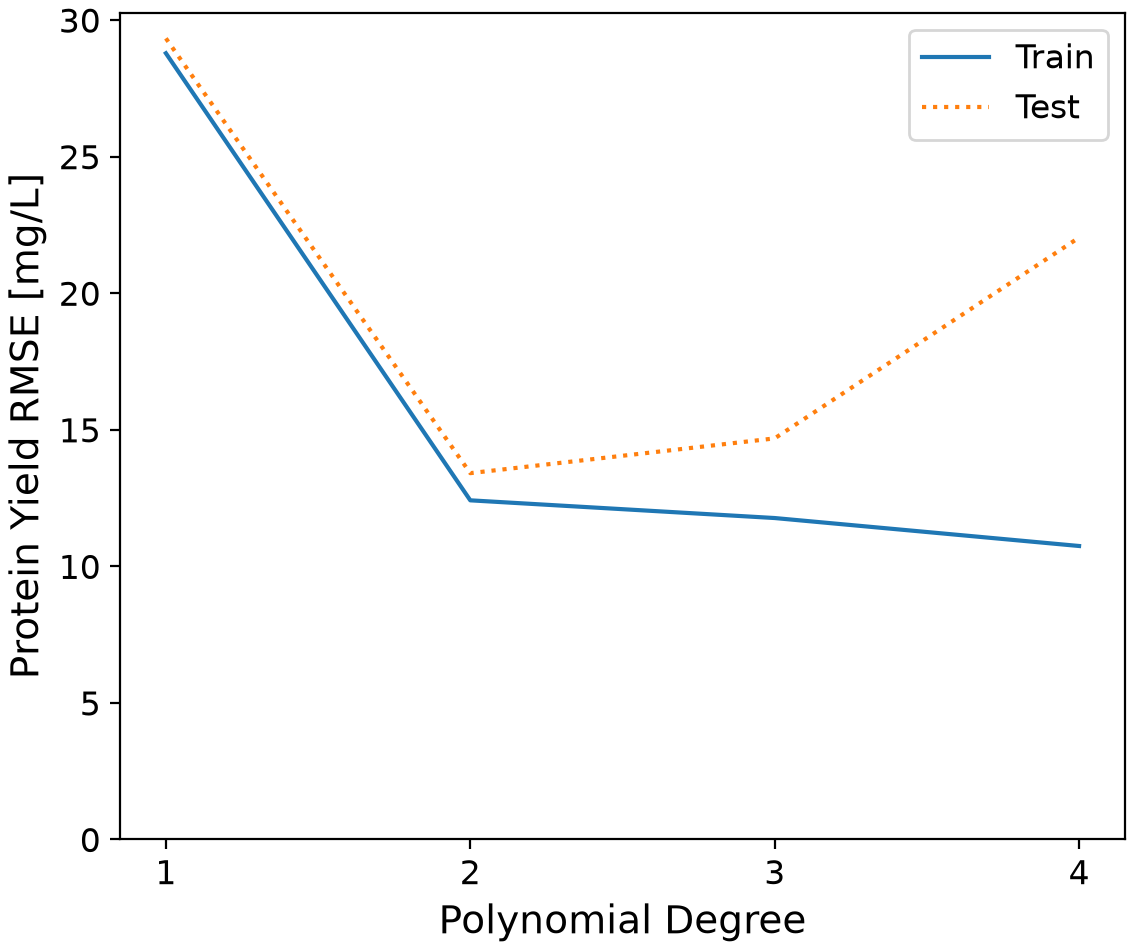
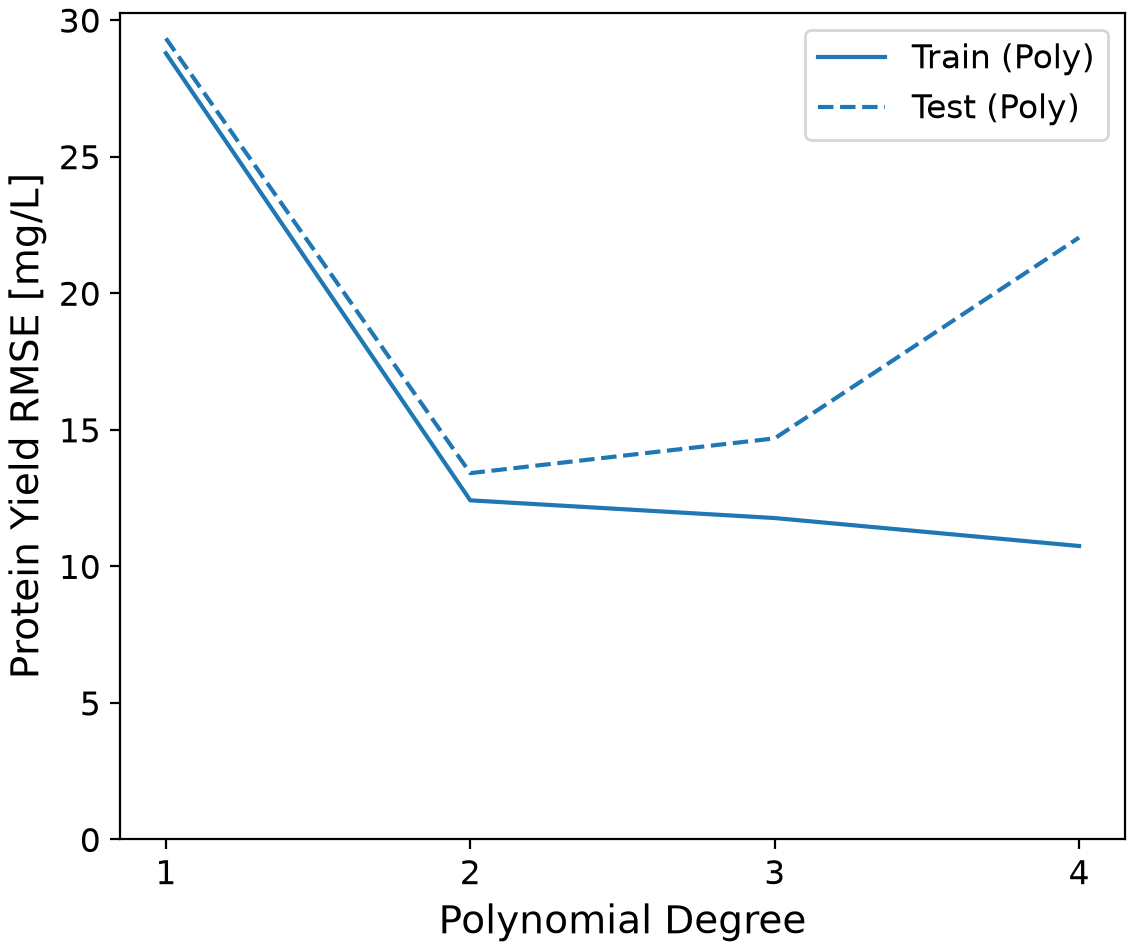
Added unit 4 > main 9

diff --git a/units/unit_04/main_09_knn_regression.py b/units/unit_04/main_09_knn_regression.py
@@ -1,0 +1,106 @@
+# ============================================================================
+#   k-Nearest Neighbors Regression
+# ============================================================================
+#
+#   * Polynomial regression extends linear regression using higher-order
+#     terms of the input features.
+#
+#   * These additional terms allow the model to capture nonlinear
+#     relationships in the data.
+#
+#   * More complex polynomial models can improve fit but may increase the
+#     risk of overfitting.
+#
+# ============================================================================
+
+import os
+
+import pandas as pd
+from matplotlib import pyplot as plt
+from sklearn.model_selection import GridSearchCV, train_test_split
+from sklearn.neighbors import KNeighborsRegressor
+from sklearn.pipeline import make_pipeline
+from sklearn.preprocessing import StandardScaler
+
+df = pd.read_csv(os.path.join("datasets", "dataset_protein_yield.csv"))
+
+features = df.columns[:-1]
+targets = df.columns[-1]
+
+x = df.loc[:, features].to_numpy()
+y = df.loc[:, targets].to_numpy()
+
+x_train, x_test, y_train, y_test = train_test_split(x, y, test_size=0.2, random_state=0)
+
+model = make_pipeline(
+    StandardScaler(),
+    KNeighborsRegressor()
+)
+
+# Define the "Grid" that we want to "Search" when performing "CV" in GridSearchCV
+param_grid = dict(
+    kneighborsregressor__n_neighbors=[i for i in range(1, 81)],  # Try every value of n_neighbors from 1 to 10
+    kneighborsregressor__weights=["uniform", "distance"],  # Try both weight functions
+)
+
+# Create the model using GridSearchCV
+model_gscv = GridSearchCV(model, param_grid=param_grid, cv=4, scoring="neg_root_mean_squared_error",
+                          return_train_score=True)
+
+model_gscv.fit(x_train, y_train)
+
+df = pd.DataFrame(model_gscv.cv_results_)
+
+# We can sort the DataFrame by rank_test_score (i.e., best to worst)
+df = df.sort_values(by=['rank_test_score'], ascending=True)
+
+# Define the columns of interest with the relevant hyperparameters
+columns_view = [
+    "rank_test_score",
+    "param_kneighborsregressor__n_neighbors",
+    "param_kneighborsregressor__weights",
+    "mean_test_score", "std_test_score",
+    "mean_train_score", "std_train_score"
+]
+
+print("\nRecall that we used negative RMSE, therefore a higher score (i.e., closer to zero) is better:\n")
+print(df.loc[:, columns_view].to_string())
+print()
+
+print(f"Final Test negative RMSE: {model_gscv.score(x_test, y_test):.6f} mg/L\n")
+print()
+
+# ==========================
+#   Plot Validation Curves
+# ==========================
+
+COLORS = ["tab:blue", "tab:orange", "tab:green", "tab:red"]
+LINESTYLES = ["-", ":", "--", "-."]
+FIG_WIDTH = 14.39 / 2.54
+FIG_HEIGHT = 12.09 / 2.54
+
+fontsize_xy_label = 14
+fontsize_ticks = 12
+fontsize_legend = 12
+
+fig, ax = plt.subplots(nrows=1, ncols=1, figsize=(FIG_WIDTH, FIG_HEIGHT), dpi=200, layout="constrained")
+
+for i, weight in enumerate(param_grid["kneighborsregressor__weights"], start=1):
+    mask_weight = (df.loc[:, "param_kneighborsregressor__weights"] == weight)
+    df_sub = df.loc[mask_weight, :]
+    df_sub = df_sub.sort_values(by=['param_kneighborsregressor__n_neighbors'], ascending=True)
+    n_neighbors = df_sub.loc[:, "param_kneighborsregressor__n_neighbors"].to_numpy()
+    rmse_train = - df_sub.loc[:, "mean_train_score"].to_numpy()
+    rmse_test = - df_sub.loc[:, "mean_test_score"].to_numpy()
+
+    ax.plot(n_neighbors, rmse_train, label=f"Train (kNN: {weight})", color=COLORS[i], linestyle="-")
+    ax.plot(n_neighbors, rmse_test, label=f"Test (kNN: {weight})", color=COLORS[i], linestyle="--")
+
+ax.set_xlabel("k", fontsize=fontsize_xy_label)
+ax.set_ylabel("Protein Yield RMSE [mg/L]", fontsize=fontsize_xy_label)
+ax.tick_params(axis='both', which='major', labelsize=fontsize_ticks)
+ax.legend(ncols=1, fontsize=fontsize_legend)
+ax.set_ylim(bottom=0)
+
+fig.savefig(os.path.join("figures", "figure_09.png"))
+plt.close(fig)

diff --git a/units/unit_04/main_08_hyperparameter_optimization.py b/units/unit_04/main_08_hyperparameter_optimization.py
@@ -66,13 +66,13 @@ print()
 
 # Print the final test score on data that was never seen by GridSearchCV
 print(f"Final Test negative RMSE: {model_gscv.score(x_test, y_test):.6f} mg/L\n")
-print("Note how it is slightly worse than the best mean_test_score in the GridSearchCV results.")
 print()
 
-# =========
-#   PLOT
-# =========
+# ==========================
+#   Plot Validation Curves
+# ==========================
 
+COLORS = ["tab:blue", "tab:orange", "tab:green", "tab:red"]
 LINESTYLES = ["-", ":", "--", "-."]
 FIG_WIDTH = 14.39 / 2.54
 FIG_HEIGHT = 12.09 / 2.54
@@ -88,8 +88,8 @@ rmse_test = - df.loc[:, "mean_test_score"].to_numpy()
 
 fig, ax = plt.subplots(nrows=1, ncols=1, figsize=(FIG_WIDTH, FIG_HEIGHT), dpi=200, layout="constrained")
 
-ax.plot(degrees[:plot_n], rmse_train[:plot_n], label=f"Train", linestyle=LINESTYLES[0])
-ax.plot(degrees[:plot_n], rmse_test[:plot_n], label=f"Test", linestyle=LINESTYLES[1])
+ax.plot(degrees[:plot_n], rmse_train[:plot_n], label=f"Train (Poly)", color=COLORS[0], linestyle="-")
+ax.plot(degrees[:plot_n], rmse_test[:plot_n], label=f"Test (Poly)", color=COLORS[0], linestyle="--")
 ax.set_xlabel("Polynomial Degree", fontsize=fontsize_xy_label)
 ax.set_ylabel("Protein Yield RMSE [mg/L]", fontsize=fontsize_xy_label)
 ax.tick_params(axis='both', which='major', labelsize=fontsize_ticks)
